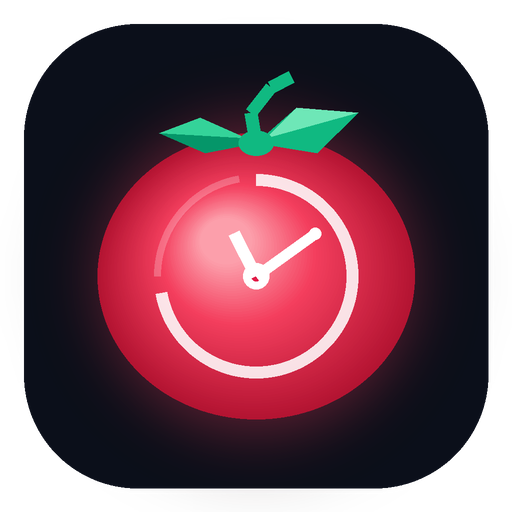
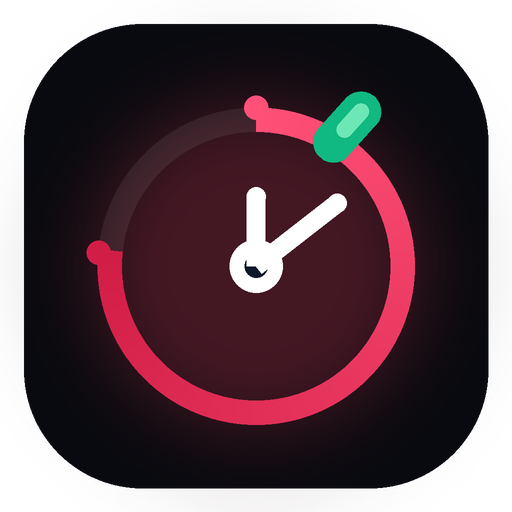
feat: ultra-clean high-contrast vector brand identity and launcher assets

diff --git a/gen_minimal_logo.py b/gen_minimal_logo.py
@@ -1,0 +1,215 @@
+import os
+import math
+from PIL import Image, ImageDraw, ImageFilter
+
+def create_ultra_minimal_logo(size=1024):
+    scale = 2
+    W = size * scale
+    H = size * scale
+
+    # 1. Base transparent canvas
+    img = Image.new('RGBA', (W, H), (0, 0, 0, 0))
+
+    # --- Background: Ultra-premium Midnight Squircle with Subtle Neon Border ---
+    pad = int(W * 0.04)
+    corner = int(W * 0.24)
+
+    bg = Image.new('RGBA', (W, H), (0, 0, 0, 0))
+    bg_draw = ImageDraw.Draw(bg)
+    bg_draw.rounded_rectangle(
+        [(pad, pad), (W - pad, H - pad)],
+        radius=corner,
+        fill=(8, 10, 15, 255)
+    )
+    # Subtle inner bevel stroke
+    bg_draw.rounded_rectangle(
+        [(pad, pad), (W - pad, H - pad)],
+        radius=corner,
+        outline=(255, 255, 255, 30),
+        width=int(W * 0.008)
+    )
+    img = Image.alpha_composite(img, bg)
+
+    center_x = W / 2
+    center_y = H / 2 + int(W * 0.02) # Balanced vertical center
+
+    # --- Soft Ambient Core Glow ---
+    glow = Image.new('RGBA', (W, H), (0, 0, 0, 0))
+    glow_draw = ImageDraw.Draw(glow)
+    gr = int(W * 0.38)
+    glow_draw.ellipse(
+        [(center_x - gr, center_y - gr), (center_x + gr, center_y + gr)],
+        fill=(244, 63, 94, 65)
+    )
+    glow = glow.filter(ImageFilter.GaussianBlur(int(W * 0.09)))
+    img = Image.alpha_composite(img, glow)
+
+    # --- The Geometry Layer (Vector-like Sharp Drawing) ---
+    vector_layer = Image.new('RGBA', (W, H), (0, 0, 0, 0))
+    v_draw = ImageDraw.Draw(vector_layer)
+
+    r_outer = int(W * 0.31)
+    stroke_w = int(W * 0.048) # Bold, confident stroke
+
+    # 1. Outer Track Ring (Subtle Track)
+    v_draw.ellipse(
+        [(center_x - r_outer, center_y - r_outer),
+         (center_x + r_outer, center_y + r_outer)],
+        fill=None,
+        outline=(255, 255, 255, 18),
+        width=stroke_w
+    )
+
+    # 2. Main Focus Arc: 270-degree Glowing Rose-Red Sweep (from -90 to 180 deg)
+    # Draw arc in progressive gradient segments
+    arc_steps = 180
+    start_ang = -90
+    total_sweep = 275
+
+    for i in range(arc_steps):
+        t = i / arc_steps
+        cur_start = start_ang + t * total_sweep
+        cur_end = cur_start + (total_sweep / arc_steps) + 1.2
+        
+        # Color transition: Coral-Orange (#fb7185 / #ff5376) to Deep Rose (#e11d48)
+        r = int(255 - t * 45)
+        g = int(80 - t * 50)
+        b = int(120 - t * 50)
+        
+        v_draw.arc(
+            [(center_x - r_outer, center_y - r_outer),
+             (center_x + r_outer, center_y + r_outer)],
+            start=cur_start,
+            end=cur_end,
+            fill=(r, g, b, 255),
+            width=stroke_w
+        )
+
+    # Rounded endcaps for the arc
+    # Start cap at -90 deg (top center)
+    cap_r = stroke_w // 2
+    top_cap_x = center_x
+    top_cap_y = center_y - r_outer
+    v_draw.ellipse(
+        [(top_cap_x - cap_r, top_cap_y - cap_r), (top_cap_x + cap_r, top_cap_y + cap_r)],
+        fill=(255, 80, 120, 255)
+    )
+    # End cap at end angle
+    end_rad = math.radians(start_ang + total_sweep)
+    end_cap_x = center_x + int(r_outer * math.cos(end_rad))
+    end_cap_y = center_y + int(r_outer * math.sin(end_rad))
+    v_draw.ellipse(
+        [(end_cap_x - cap_r, end_cap_y - cap_r), (end_cap_x + cap_r, end_cap_y + cap_r)],
+        fill=(210, 30, 70, 255)
+    )
+
+    # 3. Inner Center Clockwork: Sculpted Play/Focus Geometry
+    # Solid center hub
+    hub_r = int(W * 0.052)
+    v_draw.ellipse(
+        [(center_x - hub_r, center_y - hub_r), (center_x + hub_r, center_y + hub_r)],
+        fill=(255, 255, 255, 255)
+    )
+    # High-contrast center core
+    core_r = int(hub_r * 0.45)
+    v_draw.ellipse(
+        [(center_x - core_r, center_y - core_r), (center_x + core_r, center_y + core_r)],
+        fill=(15, 23, 42, 255)
+    )
+
+    # Minute Hand (Pointing up-right at 2:00 / 45 deg - forward momentum)
+    m_len = int(r_outer * 0.65)
+    m_ang = math.radians(-38)
+    mx = center_x + int(m_len * math.cos(m_ang))
+    my = center_y + int(m_len * math.sin(m_ang))
+    v_draw.line(
+        [(center_x, center_y), (mx, my)],
+        fill=(255, 255, 255, 255),
+        width=int(W * 0.038)
+    )
+    v_draw.ellipse(
+        [(mx - int(W*0.019), my - int(W*0.019)), (mx + int(W*0.019), my + int(W*0.019))],
+        fill=(255, 255, 255, 255)
+    )
+
+    # Hour Hand (Pointing straight up to 12:00)
+    h_len = int(r_outer * 0.44)
+    v_draw.line(
+        [(center_x, center_y), (center_x, center_y - h_len)],
+        fill=(255, 255, 255, 255),
+        width=int(W * 0.038)
+    )
+    v_draw.ellipse(
+        [(center_x - int(W*0.019), center_y - h_len - int(W*0.019)),
+         (center_x + int(W*0.019), center_y - h_len + int(W*0.019))],
+        fill=(255, 255, 255, 255)
+    )
+
+    # 4. Minimalist Organic Leaf Accent (Emerald Green Crown at Top-Right)
+    # An iconic 45-degree angled sleek pill-leaf that breaks the circle organically
+    leaf_layer = Image.new('RGBA', (W, H), (0, 0, 0, 0))
+    leaf_draw = ImageDraw.Draw(leaf_layer)
+
+    leaf_cx = center_x + int(r_outer * 0.58)
+    leaf_cy = center_y - int(r_outer * 0.88)
+    leaf_w = int(W * 0.08)
+    leaf_h = int(W * 0.16)
+
+    # Draw slanted capsule leaf
+    leaf_img = Image.new('RGBA', (leaf_w, leaf_h), (0, 0, 0, 0))
+    li_draw = ImageDraw.Draw(leaf_img)
+    li_draw.rounded_rectangle(
+        [(0, 0), (leaf_w, leaf_h)],
+        radius=leaf_w // 2,
+        fill=(16, 185, 129, 255)
+    )
+    # Bright emerald inner streak
+    li_draw.rounded_rectangle(
+        [(int(leaf_w * 0.3), int(leaf_h * 0.15)),
+         (int(leaf_w * 0.7), int(leaf_h * 0.65))],
+        radius=int(leaf_w * 0.2),
+        fill=(110, 231, 183, 255)
+    )
+
+    # Rotate leaf by 40 degrees
+    rotated_leaf = leaf_img.rotate(-42, resample=Image.Resampling.BICUBIC, expand=True)
+    rw, rh = rotated_leaf.size
+    vector_layer.paste(rotated_leaf, (int(leaf_cx - rw/2), int(leaf_cy - rh/2)), rotated_leaf)
+
+    img = Image.alpha_composite(img, vector_layer)
+
+    # High-quality Lanczos downsample to target size
+    return img.resize((size, size), Image.Resampling.LANCZOS)
+
+def generate_assets():
+    base = create_ultra_minimal_logo(512)
+    base.save('/root/pomodoro-app/public/pomo-icon.png')
+    base.save('/root/pomodoro-app/android-res/icon.png')
+
+    # Adaptive foreground: perfectly centered with Android safe margins
+    fg = Image.new('RGBA', (512, 512), (0, 0, 0, 0))
+    scaled = create_ultra_minimal_logo(380)
+    fg.paste(scaled, (66, 66), scaled)
+    fg.save('/root/pomodoro-app/android-res/icon-foreground.png')
+
+    densities = {
+        'mipmap-mdpi': 48,
+        'mipmap-hdpi': 72,
+        'mipmap-xhdpi': 96,
+        'mipmap-xxhdpi': 144,
+        'mipmap-xxxhdpi': 192,
+    }
+
+    for folder, s in densities.items():
+        d = os.path.join('/root/pomodoro-app/android-res', folder)
+        os.makedirs(d, exist_ok=True)
+        r = base.resize((s, s), Image.Resampling.LANCZOS)
+        r.save(os.path.join(d, 'ic_launcher.png'))
+        r.save(os.path.join(d, 'ic_launcher_round.png'))
+
+        fgr = fg.resize((s, s), Image.Resampling.LANCZOS)
+        fgr.save(os.path.join(d, 'ic_launcher_foreground.png'))
+
+    print("Ultra-minimal clean logo generated across all mipmap targets!")
+
+generate_assets()
